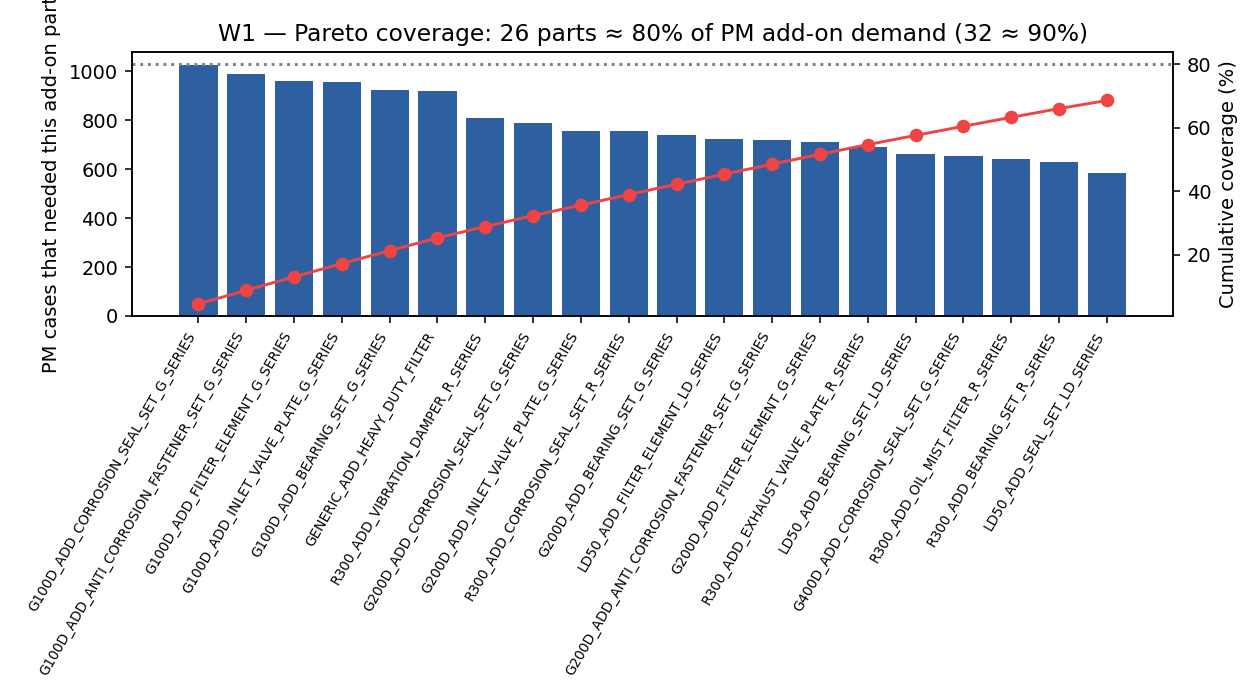
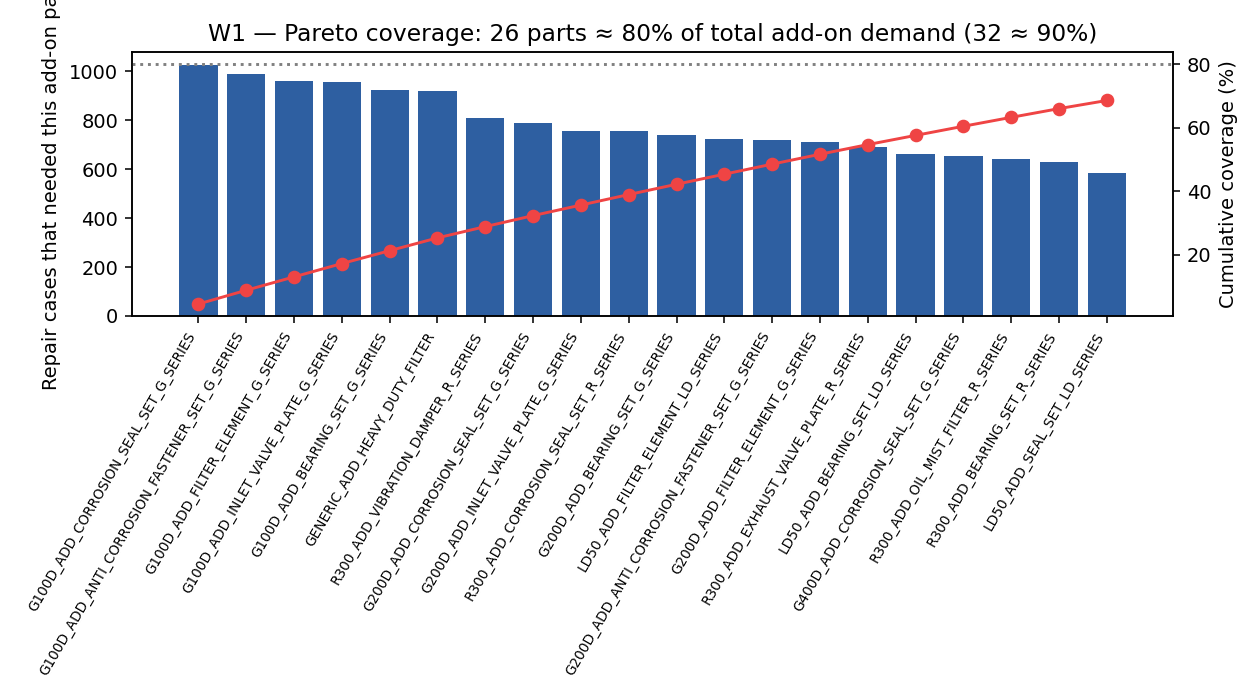
Update W1 Pareto diagram and handbook labels to refer to all repairs instead of PM cohort

Changed region(s): [[0.1548, 0.03, 0.8667, 0.06], [0.031, 0.0, 0.0619, 0.57]]

diff --git a/bi_pipeline.py b/bi_pipeline.py
@@ -155,7 +155,7 @@ def _plot_w1_pareto(basket: pd.DataFrame, out: Path) -> dict:
     ax1.bar(range(len(top)), top.values, color="#2E5FA1")
     ax1.set_xticks(range(len(top)))
     ax1.set_xticklabels(top.index, rotation=60, ha="right", fontsize=7)
-    ax1.set_ylabel("PM cases that needed this add-on part")
+    ax1.set_ylabel("Repair cases that needed this add-on part")
 
     ax2 = ax1.twinx()
     ax2.plot(
@@ -168,8 +168,8 @@ def _plot_w1_pareto(basket: pd.DataFrame, out: Path) -> dict:
     ax2.axhline(80, ls=":", color="grey")
 
     ax1.set_title(
-        f"W1 — Pareto coverage: {cov80} parts ≈ 80% of PM add-on demand "
-        f"({cov90} ≈ 90%)"
+        f"W1 — Pareto coverage: {cov80} parts \u2248 80% of total add-on demand "
+        f"({cov90} \u2248 90%)"
     )
     fig.tight_layout()
     fig.savefig(out, dpi=140)

diff --git a/build_handbook.py b/build_handbook.py
@@ -46,7 +46,7 @@ def _metrics_block(base: dict) -> str:
 
 | Work package | Metric | Value |
 |--------------|--------|-------|
-| W1 | PM baskets analysed | {w1.get('pm_cases', '—')} |
+| W1 | Repairs analyzed | {w1.get('pm_cases', '—')} |
 | W1 | Association rules | {w1.get('rules_count', '—')} |
 | W1 | Top rule lift | {w1.get('top_lift', 0):.2f} |
 | W1 | Pareto SKUs for 80% / 90% coverage | {w1.get('pareto_cov80_parts', '—')} / {w1.get('pareto_cov90_parts', '—')} |